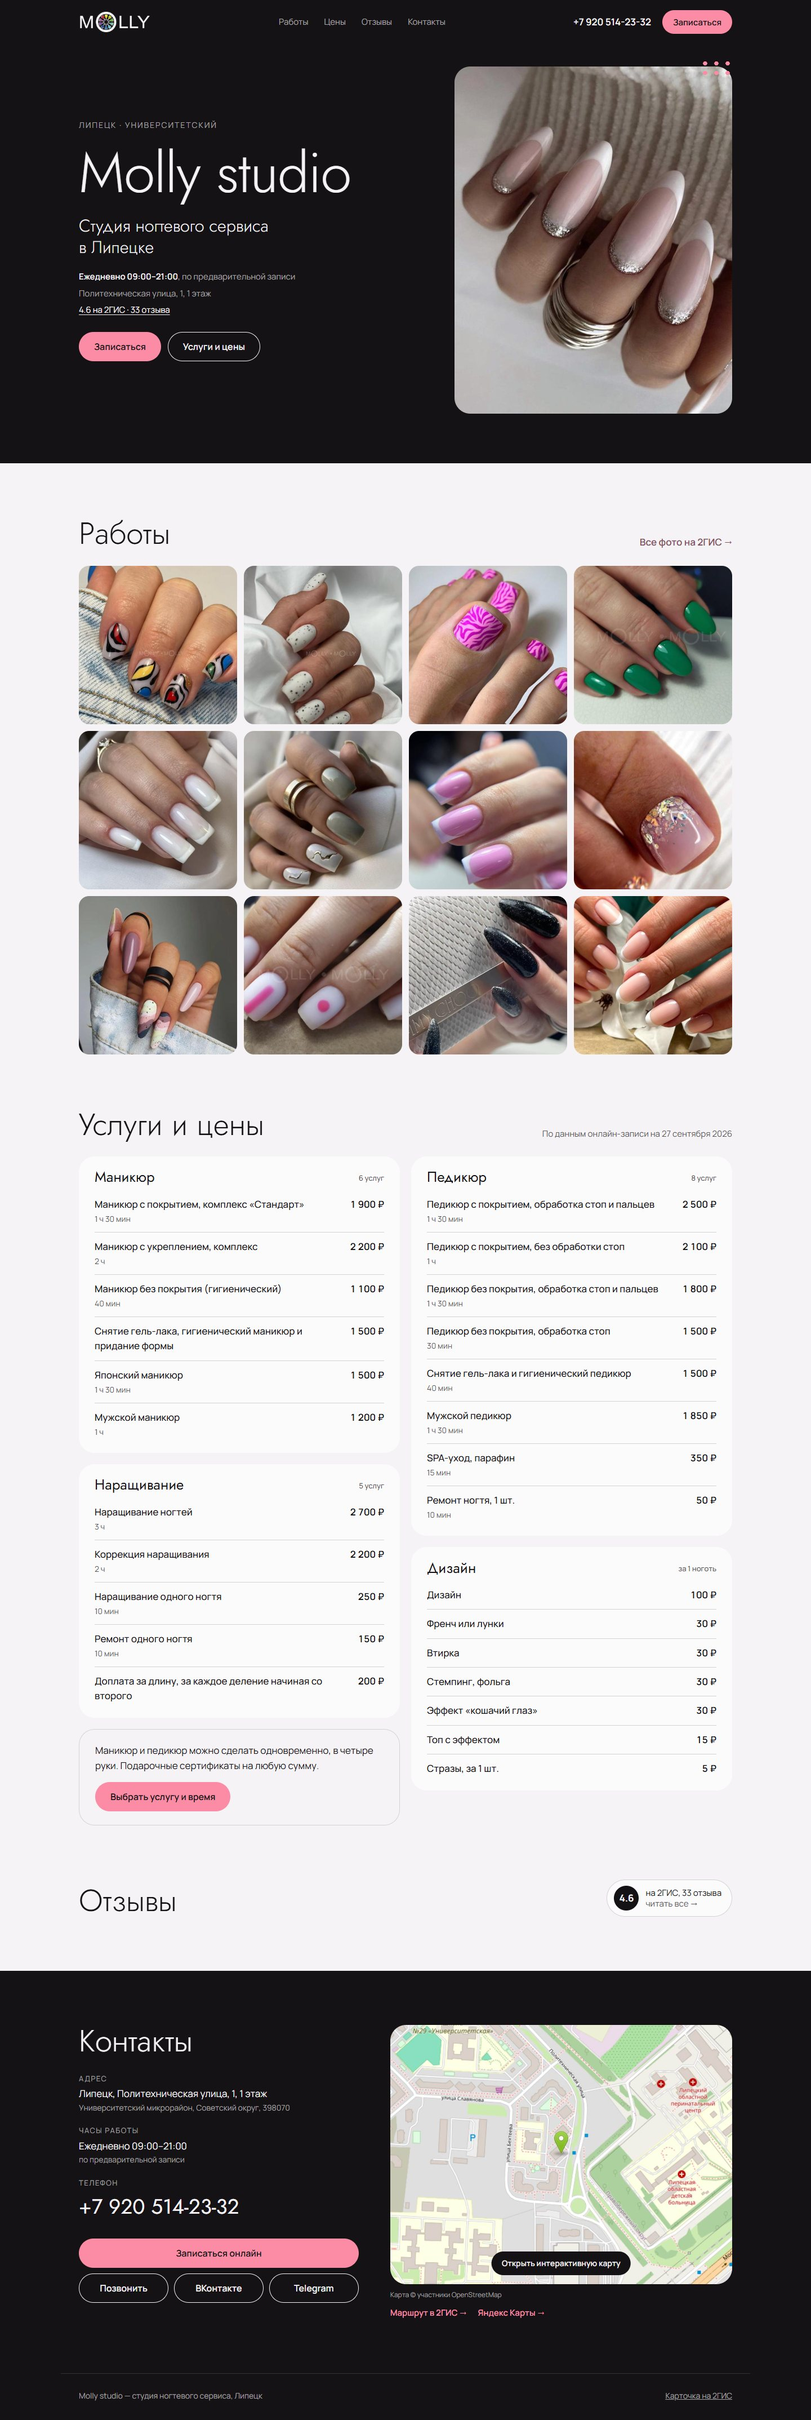
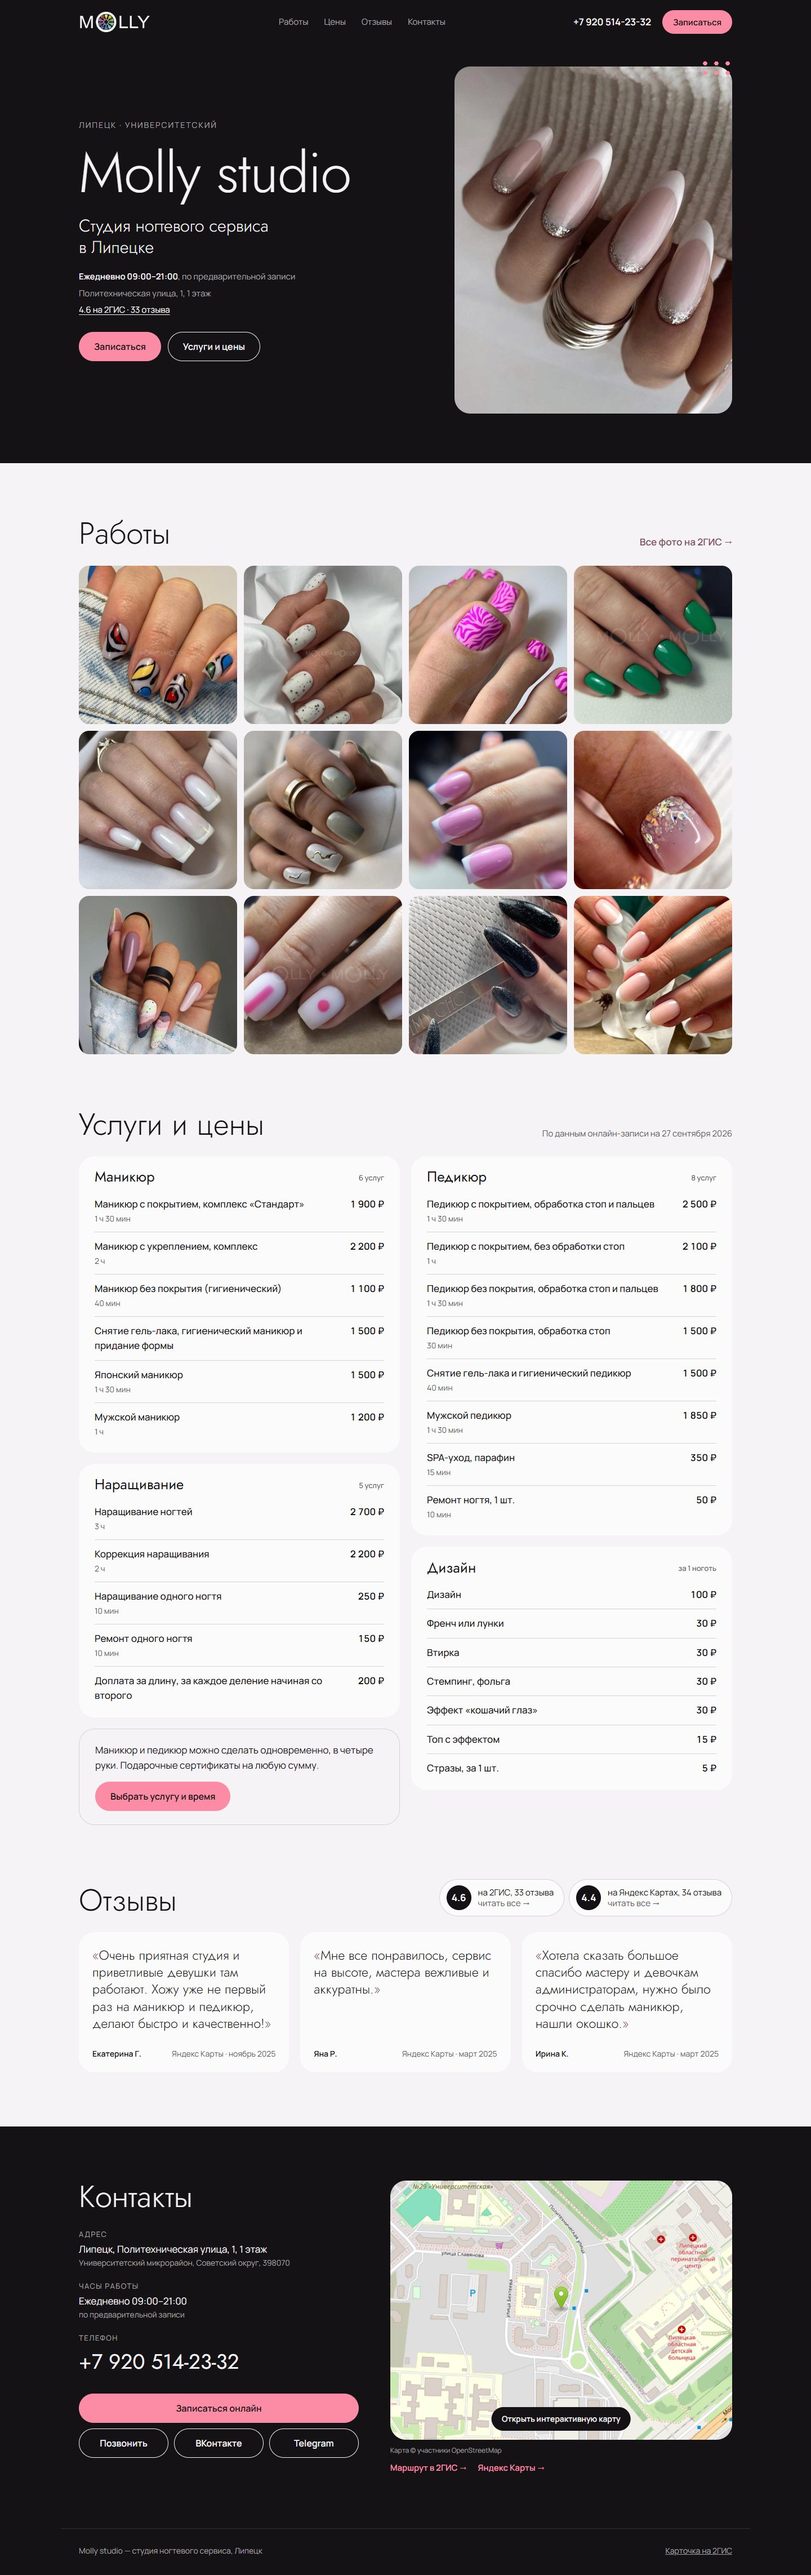
Отзывы с Яндекс Карт и второй рейтинг
- три свежих положительных отзыва с Яндекс Карт (ноябрь 2025, март 2025),
  дословные цитаты с начала предложения, без звёзд — оценки не получены
- рядом с рейтингом 2ГИС добавлен «4.4 на Яндекс Картах, 34 отзыва»
- ссылка на карточку Яндекса в JSON-LD sameAs
- TODO.md и README.md: что сверить вручную, как править отзывы

diff --git a/index.html b/index.html
@@ -59,7 +59,8 @@
     "openingHours": "Mo-Su 09:00-21:00",
     "sameAs": [
       "https://vk.com/molly_48",
-      "https://2gis.ru/lipetsk/firm/70000001057707807"
+      "https://2gis.ru/lipetsk/firm/70000001057707807",
+      "https://yandex.ru/maps/org/molly/115382699141/"
     ]
   }
   </script>
@@ -251,28 +252,47 @@
       <div class="wrap">
         <div class="section__head">
           <h2 id="reviews-title">Отзывы</h2>
-          <a class="rating" href="https://2gis.ru/lipetsk/firm/70000001057707807/tab/reviews" target="_blank" rel="noopener">
-            <span class="rating__score">4.6</span>
-            <span class="rating__text">на 2ГИС, 33 отзыва<br><span>читать все →</span></span>
-          </a>
+          <div class="ratings">
+            <a class="rating" href="https://2gis.ru/lipetsk/firm/70000001057707807/tab/reviews" target="_blank" rel="noopener">
+              <span class="rating__score">4.6</span>
+              <span class="rating__text">на 2ГИС, 33 отзыва<br><span>читать все →</span></span>
+            </a>
+            <a class="rating" href="https://yandex.ru/maps/org/molly/115382699141/reviews/" target="_blank" rel="noopener">
+              <span class="rating__score">4.4</span>
+              <span class="rating__text">на Яндекс Картах, 34 отзыва<br><span>читать все →</span></span>
+            </a>
+          </div>
         </div>
-        <!--
-          МЕСТО ДЛЯ ОТЗЫВОВ (сейчас пусто, см. TODO.md, раздел «Отзывы»).
-          Когда появятся 3 свежих отзыва, вставить сюда список
-          (стили .reviews и .review уже есть в style.css):
-
-          <ul class="reviews" data-source="2gis-reviews">
-            <li>
-              <figure class="review">
-                <blockquote cite="https://2gis.ru/lipetsk/firm/70000001057707807/tab/reviews">ЦИТАТА — цельная фраза с начала предложения</blockquote>
-                <figcaption>
-                  <cite>ИМЯ И ПЕРВАЯ БУКВА ФАМИЛИИ, как на 2ГИС</cite>
-                  <span class="meta"><span class="stars" aria-label="5 из 5">★★★★★</span> · МЕСЯЦ ГОД</span>
-                </figcaption>
-              </figure>
-            </li>
-          </ul>
-        -->
+        <!-- Цитаты — дословно, с начала предложения; источник — Яндекс Карты, данные на 27.09.2026 (см. TODO.md) -->
+        <ul class="reviews" data-source="yandex-maps 2026-09-27">
+          <li>
+            <figure class="review">
+              <blockquote cite="https://yandex.ru/maps/org/molly/115382699141/reviews/">Очень приятная студия и приветливые девушки там работают. Хожу уже не первый раз на маникюр и педикюр, делают быстро и качественно!</blockquote>
+              <figcaption>
+                <cite>Екатерина Г.</cite>
+                <span class="meta">Яндекс Карты · ноябрь 2025</span>
+              </figcaption>
+            </figure>
+          </li>
+          <li>
+            <figure class="review">
+              <blockquote cite="https://yandex.ru/maps/org/molly/115382699141/reviews/">Мне все понравилось, сервис на высоте, мастера вежливые и аккуратны.</blockquote>
+              <figcaption>
+                <cite>Яна Р.</cite>
+                <span class="meta">Яндекс Карты · март 2025</span>
+              </figcaption>
+            </figure>
+          </li>
+          <li>
+            <figure class="review">
+              <blockquote cite="https://yandex.ru/maps/org/molly/115382699141/reviews/">Хотела сказать большое спасибо мастеру и девочкам администраторам, нужно было срочно сделать маникюр, нашли окошко.</blockquote>
+              <figcaption>
+                <cite>Ирина К.</cite>
+                <span class="meta">Яндекс Карты · март 2025</span>
+              </figcaption>
+            </figure>
+          </li>
+        </ul>
       </div>
     </section>
   </main>

diff --git a/style.css b/style.css
@@ -534,6 +534,12 @@ main .section + .section { padding-top: 0; }
 
 /* ---------- Отзывы ---------- */
 
+.ratings {
+  display: flex;
+  flex-wrap: wrap;
+  gap: 8px;
+}
+
 .rating {
   display: inline-flex;
   align-items: center;

diff --git a/TODO.md b/TODO.md
@@ -2,31 +2,29 @@
 
 Обновлено 27.09.2026. Сайт: https://artemdiscipline.github.io/molly-studio/
 
-На странице нет выдуманных фактов: цены — из YClients, рейтинг — с 2ГИС,
+На странице нет выдуманных фактов: цены — из YClients, рейтинги — с 2ГИС
+и Яндекс Карт, отзывы — с Яндекс Карт,
 строки про «четыре руки» и сертификаты — из ВКонтакте, остальное — из брифа.
 Скрытые заготовки помечены атрибутом `data-todo`.
 
 ## Нужно от клиента
 
-- [ ] **Отзывы — вставить 3 свежих.** Карточки отзывов сейчас убраны,
-  на сайте только строка «4.6 на 2ГИС, 33 отзыва» со ссылкой на карточку.
-  Причина: на 2ГИС (проверено 27.09.2026, сортировка по дате) за 2025–2026
-  годы всего два отзыва, и оба отрицательные — 15.07.2026, 1★ (про солярий)
-  и 04.05.2026, 3★ (про укрепление, «никому не посоветую»). Следующий по
-  дате — 27.02.2024. Ставить жалобы на сайт студии нельзя, а обрезать их до
-  похвалы — значит исказить смысл; старые отзывы по брифу оставлять нельзя.
+- [ ] **Отзывы — сверить с Яндекс Картами.** На сайте три отзыва с
+  Яндекс Карт (https://yandex.ru/maps/org/molly/115382699141/reviews/):
+  Екатерина Г. — ноябрь 2025, Яна Р. — март 2025, Ирина К. — март 2025.
+  Сам Яндекс из среды сборки не открывался, тексты получены через
+  загрузчик страниц (два независимых запроса дали одинаковый текст).
+  Что сделать: открыть ссылку, сверить три цитаты слово в слово и даты.
+  Оценки в звёздах получить не удалось, поэтому на карточках звёзд нет —
+  если все три 5★, можно добавить `<span class="stars" aria-label="5 из 5">★★★★★</span>`
+  в `.meta`. Имена сокращены до имени и первой буквы фамилии.
+  Где в коде: `index.html`, `<section id="reviews">`, список `<ul class="reviews">`.
 
-  Что сделать: попросить студию собрать свежие отзывы довольных клиенток
-  на 2ГИС (например, QR-код на ресепшене). Когда появятся — взять три
-  самых свежих.
-
-  Куда вставить: `index.html`, секция `<section id="reviews">` (около
-  строки 250), комментарий «МЕСТО ДЛЯ ОТЗЫВОВ» сразу после строки
-  рейтинга. Там же готовый шаблон карточки: раскомментировать `<ul class="reviews">`
-  и повторить `<li>` три раза. Правила цитат: цельная фраза с начала
-  предложения, без многоточия в начале, можно обрезать только конец;
-  имя — как на 2ГИС (имя и первая буква фамилии), оценка звёздами, месяц и год.
-  Стили уже есть в `style.css` (`.reviews`, `.review`).
+  Контекст: на 2ГИС свежих положительных отзывов нет (в 2026 — 1★ и 3★,
+  далее февраль 2024). На Яндексе из пяти самых свежих (окт. 2025 —
+  фев. 2026) четыре отрицательные; взяты самые свежие положительные.
+  3 марта 2025 там появилось сразу четыре пятизвёздочных отзыва — похоже
+  на акцию по сбору отзывов; два из трёх отзывов на сайте — из этого дня.
 
 - [ ] **Блок «О студии» — запросить материалы.** Заготовка стоит между
   «Работы» и «Услуги и цены» и скрыта (`index.html`, около строки 146,
@@ -91,9 +89,9 @@
   одновременно, в четыре руки. Подарочные сертификаты на любую сумму»
   взята из описания сообщества и поста ВК. Подтвердить, что актуально.
 
-- [ ] **Рейтинг — ручное обновление.** «4.6 на 2ГИС, 33 отзыва» вписано
-  в HTML текстом (в шапке и в секции «Отзывы»). Раз в пару месяцев сверять
-  с https://2gis.ru/lipetsk/firm/70000001057707807/tab/reviews.
+- [ ] **Рейтинги — ручное обновление.** «4.6 на 2ГИС, 33 отзыва» (в шапке
+  и в «Отзывах») и «4.4 на Яндекс Картах, 34 отзыва» вписаны в HTML
+  текстом. Раз в пару месяцев сверять с карточками и обновлять отзывы.
 
 - [ ] **Карта.** На странице картинка OpenStreetMap, живая карта OSM
   открывается по нажатию. Виджет Яндекс Карт из среды, где собирался
@@ -117,3 +115,6 @@
 
 - Два последних отзыва на 2ГИС (май и июль 2026) — отрицательные
   (про солярий и про укрепление). На них нет официального ответа.
+- На Яндекс Картах с октября 2025 по февраль 2026 — четыре отрицательных
+  отзыва: доплаты без предупреждения («кошачий глаз», длина), гель
+  отваливается через 1–2 дня, «сервис испортился». Рейтинг там 4,4.

diff --git a/README.md b/README.md
@@ -78,12 +78,24 @@ TODO.md             что проверить и доложить руками
 
 ## Отзывы
 
-Сейчас в секции `#reviews` только строка рейтинга «4.6 на 2ГИС, 33 отзыва»
-со ссылкой на 2ГИС: свежих положительных отзывов нет (подробности в `TODO.md`).
-Сразу под строкой рейтинга — комментарий «МЕСТО ДЛЯ ОТЗЫВОВ» с готовым
-шаблоном карточки: раскомментировать `<ul class="reviews">`, повторить `<li>`
-три раза и вписать цитату, имя, оценку, месяц и год. Цитата — цельная фраза
-с начала предложения, без многоточия в начале.
+В секции `#reviews` — две плашки рейтинга (2ГИС и Яндекс Карты) и три
+отзыва с Яндекс Карт. Одна карточка:
+
+```html
+<li>
+  <figure class="review">
+    <blockquote cite="ССЫЛКА НА ОТЗЫВЫ">Цитата — цельная фраза с начала предложения</blockquote>
+    <figcaption>
+      <cite>Имя Ф.</cite>
+      <span class="meta">Яндекс Карты · месяц год</span>
+    </figcaption>
+  </figure>
+</li>
+```
+
+Кавычки «» подставляются стилями. Цитату не переписывать: можно только
+обрезать конец. Звёзды, если оценка известна, — `<span class="stars"
+aria-label="5 из 5">★★★★★</span>` в начале `.meta`.
 
 ## Блок «О студии»
 
@@ -132,7 +144,8 @@ https://yandex.ru/map-widget/v1/?ll=39.509700%2C52.604821&z=16&pt=39.509700%2C52
 |---|---|
 | Название, адрес, часы, телефон, ссылки | бриф заказчика |
 | Цены и длительность | https://n1778538.yclients.ru/ |
-| Отзывы и рейтинг | https://2gis.ru/lipetsk/firm/70000001057707807/tab/reviews |
+| Рейтинг 2ГИС | https://2gis.ru/lipetsk/firm/70000001057707807/tab/reviews |
+| Отзывы и рейтинг Яндекса | https://yandex.ru/maps/org/molly/115382699141/reviews/ |
 | Фото работ | https://2gis.ru/lipetsk/gallery/firm/70000001057707807 |
 | Логотип, «в четыре руки», сертификаты | https://vk.com/molly_48 |
 | Координаты для карты | карточка 2ГИС |
